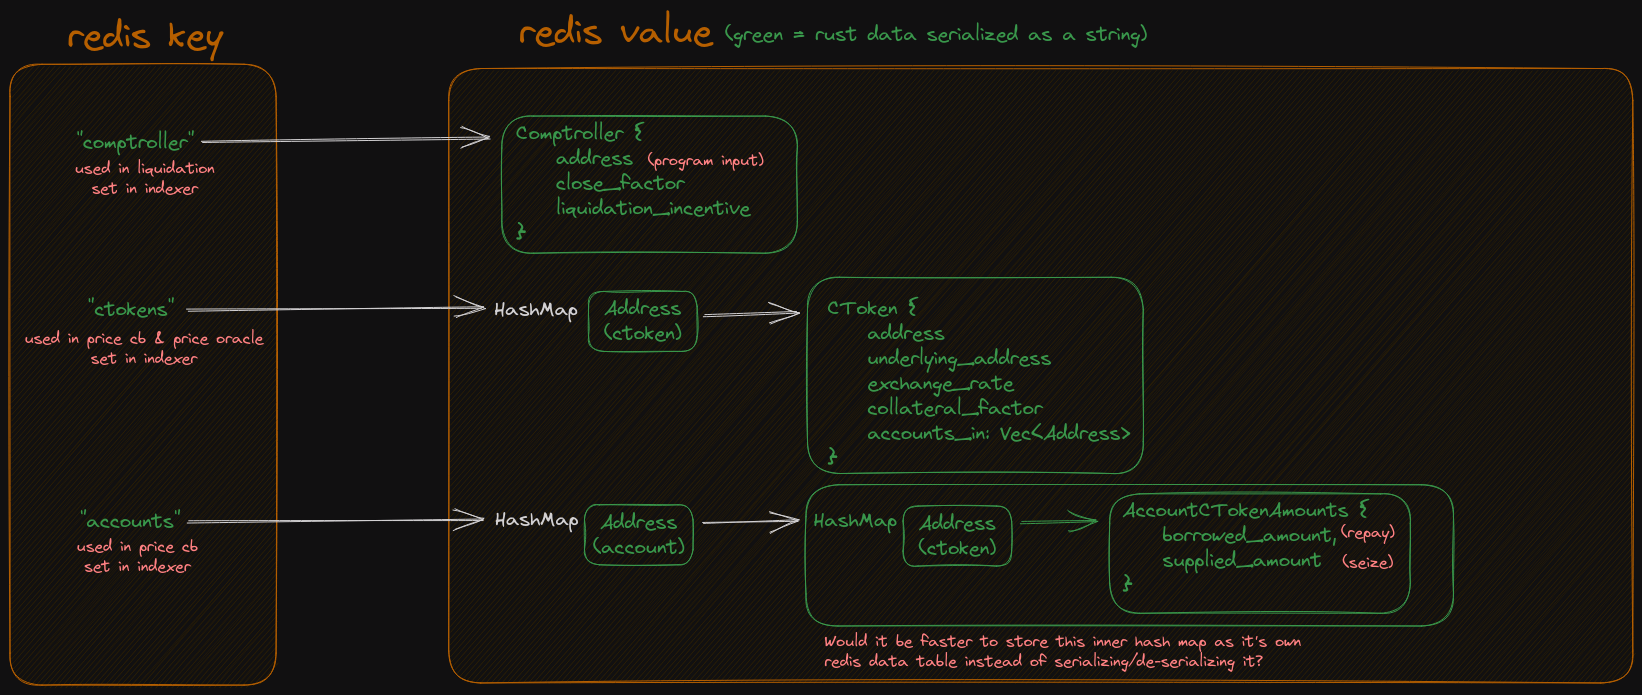
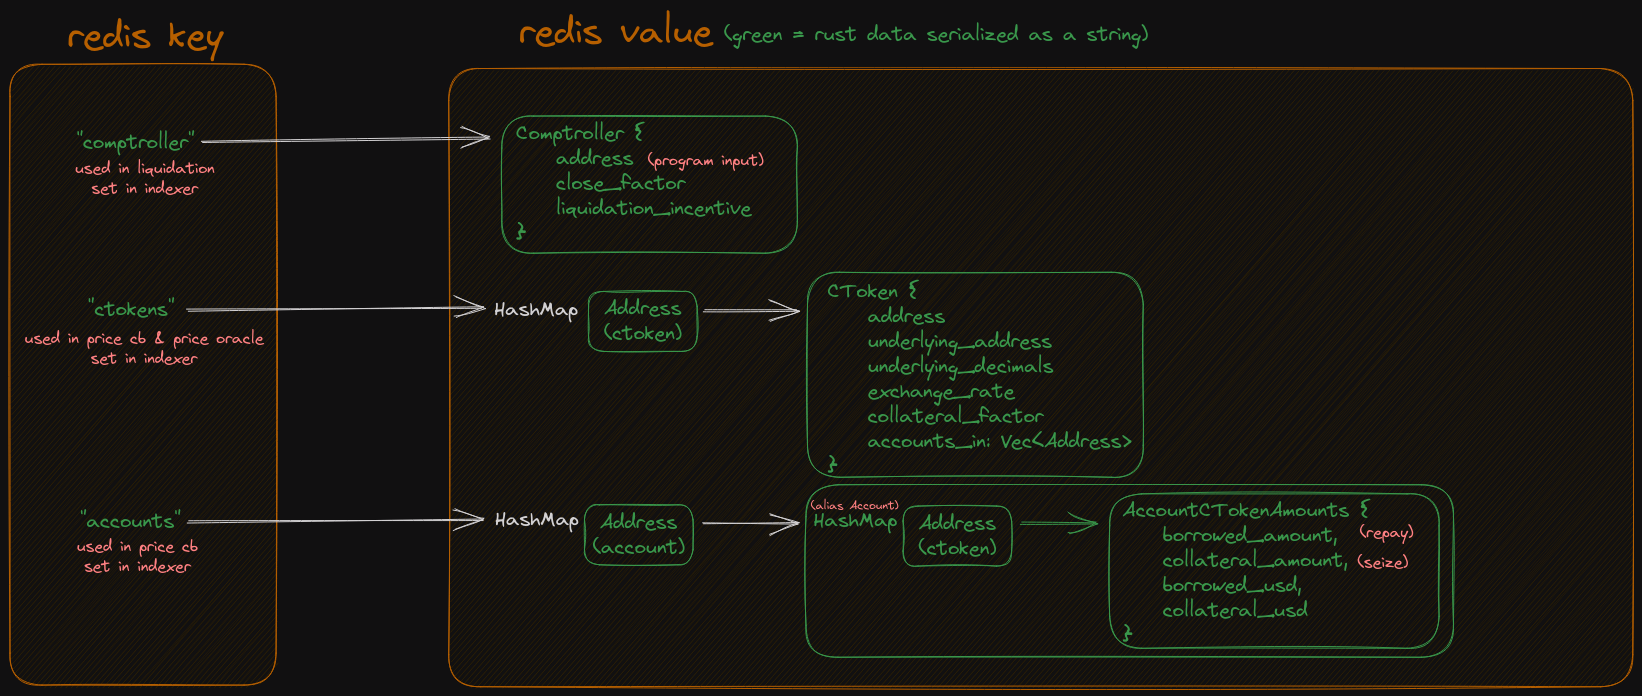
updated diagrams and converting math to U256

diff --git a/src/indexer.rs b/src/indexer.rs
@@ -296,15 +296,14 @@ impl Indexer {
         let underlying_decimals = underlying_instance.decimals().call().await.unwrap();
         let exchange_rate_mantissa = ctoken_instance.exchange_rate_stored().call().await.unwrap();
         // TODO: this conversion is just an educated guess, couldn't confirm it in compound code
-        // TODO: the typing is horrendus
         // exchange_rate = 1 + ( exchange_rate_mantissa / (1*10^(10+underlying_decimals)) )
         // / 10u64.pow(10u32 + underlying_decimals) as f64
-        let pow: U256 = U256::from(underlying_decimals) + U256::from(10);
-        let exchange_rate_denominator: U256 = U256::from(10).pow(pow);
-        let exchange_rate: f64 = 1.0
-            + (exchange_rate_mantissa.checked_div(exchange_rate_denominator))
-                .expect("exchange rate rekt me")
-                .as_u64() as f64;
+        // let pow: U256 = U256::from(underlying_decimals) + U256::from(10);
+        // let exchange_rate_denominator: U256 = U256::from(10).pow(pow);
+        // let exchange_rate: f64 = 1.0
+        //     + (exchange_rate_mantissa.checked_div(exchange_rate_denominator))
+        //         .expect("exchange rate rekt me")
+        //         .as_u64() as f64;
 
         let (_, collateral_factor_mantissa, _) = self
             .comptroller_instance
@@ -313,16 +312,13 @@ impl Indexer {
             .await
             .unwrap();
 
-        let collateral_factor: f64 =
-            collateral_factor_mantissa.as_u64() as f64 / ONE_ETHER_IN_WEI as f64;
-
         // set ctoken in DB
         let new_ctoken: CToken = CToken::new(
             ctoken_instance.address(),
             underlying_address,
             underlying_decimals,
-            exchange_rate,
-            collateral_factor,
+            exchange_rate_mantissa,
+            collateral_factor_mantissa,
             None,
         );
         let db_key: DBKey = DBKey::CToken(ctoken_instance.address());
@@ -342,7 +338,7 @@ impl Indexer {
             .await
             .unwrap();
         // ex: close_factor_mantissa = 500,000,000,000,000,000 -> close_factor = 0.5
-        let close_factor: f64 = close_factor_mantissa.as_u64() as f64 / ONE_ETHER_IN_WEI as f64;
+        // let close_factor: f64 = close_factor_mantissa.as_u64() as f64 / ONE_ETHER_IN_WEI as f64;
         let liquidation_incentive_mantissa: U256 = self
             .comptroller_instance
             .liquidation_incentive_mantissa()
@@ -350,14 +346,14 @@ impl Indexer {
             .await
             .unwrap();
         // ex: liquidation_incentive_mantissa = 1,080,000,000,000,000,000 -> liquidation_incentive = 1.08
-        let liquidation_incentive: f64 =
-            liquidation_incentive_mantissa.as_u64() as f64 / ONE_ETHER_IN_WEI as f64;
+        // let liquidation_incentive: f64 =
+        //     liquidation_incentive_mantissa.as_u64() as f64 / ONE_ETHER_IN_WEI as f64;
 
         // set comptroller in DB
         let new_comptroller = Comptroller::new(
             self.comptroller_address,
-            close_factor,
-            liquidation_incentive,
+            close_factor_mantissa,
+            liquidation_incentive_mantissa,
         );
         let db_key: DBKey = DBKey::Comptroller();
         let db_val: DBVal = DBVal::Comptroller(new_comptroller);

diff --git a/src/types/ctoken.rs b/src/types/ctoken.rs
@@ -5,9 +5,9 @@ use serde::{Deserialize, Serialize};
 pub struct CToken {
     pub address: Address,
     pub underlying_address: Address,
-    pub underlying_decimals: U256,
-    pub exchange_rate: U256,
-    pub collateral_factor: U256,
+    pub underlying_decimals: u8,
+    pub exchange_rate_mantissa: U256,
+    pub collateral_factor_mantissa: U256,
     pub accounts_in: Option<Vec<Address>>,
 }
 
@@ -15,17 +15,17 @@ impl CToken {
     pub fn new(
         address: Address,
         underlying_address: Address,
-        underlying_decimals: U256,
-        exchange_rate: U256,
-        collateral_factor: U256,
+        underlying_decimals: u8,
+        exchange_rate_mantissa: U256,
+        collateral_factor_mantissa: U256,
         accounts_in: Option<Vec<Address>>,
     ) -> CToken {
         Self {
             address,
             underlying_address,
             underlying_decimals,
-            exchange_rate,
-            collateral_factor,
+            exchange_rate_mantissa,
+            collateral_factor_mantissa,
             accounts_in,
         }
     }

diff --git a/src/price_updater.rs b/src/price_updater.rs
@@ -88,6 +88,7 @@ impl PriceUpdater {
                 let collateral_amount = account_ctoken_amount.collateral_amount.unwrap();
                 let borrowed_amount = account_ctoken_amount.borrowed_amount.unwrap();
 
+                // TODO: will have to do additional calculations on exchanage rate
                 // Here's the liquidity equation that everything hinges on
                 collateral_usd = ctoken.collateral_factor
                     * ctoken.exchange_rate
@@ -112,7 +113,6 @@ impl PriceUpdater {
                     continue;
                 } // from this scope on, account_ctoken_amount unwraps on usd fields are safe
 
-                // unwraps are safe because we just checked for existence
                 collateral_usd = account_ctoken_amount.collateral_usd.unwrap();
                 borrowed_usd = account_ctoken_amount.borrowed_usd.unwrap();
                 account_liquidity += collateral_usd - borrowed_usd;

diff --git a/src/types/comptroller.rs b/src/types/comptroller.rs
@@ -4,16 +4,20 @@ use serde::{Deserialize, Serialize};
 #[derive(Debug, Serialize, Deserialize, Clone)]
 pub struct Comptroller {
     pub address: Address,
-    pub close_factor: U256,
-    pub liquidation_incentive: U256,
+    pub close_factor_mantissa: U256,
+    pub liquidation_incentive_mantissa: U256,
 }
 
 impl Comptroller {
-    pub fn new(address: Address, close_factor: U256, liquidation_incentive: U256) -> Comptroller {
+    pub fn new(
+        address: Address,
+        close_factor_mantissa: U256,
+        liquidation_incentive_mantissa: U256,
+    ) -> Comptroller {
         Comptroller {
             address,
-            close_factor,
-            liquidation_incentive,
+            close_factor_mantissa,
+            liquidation_incentive_mantissa,
         }
     }
 }
